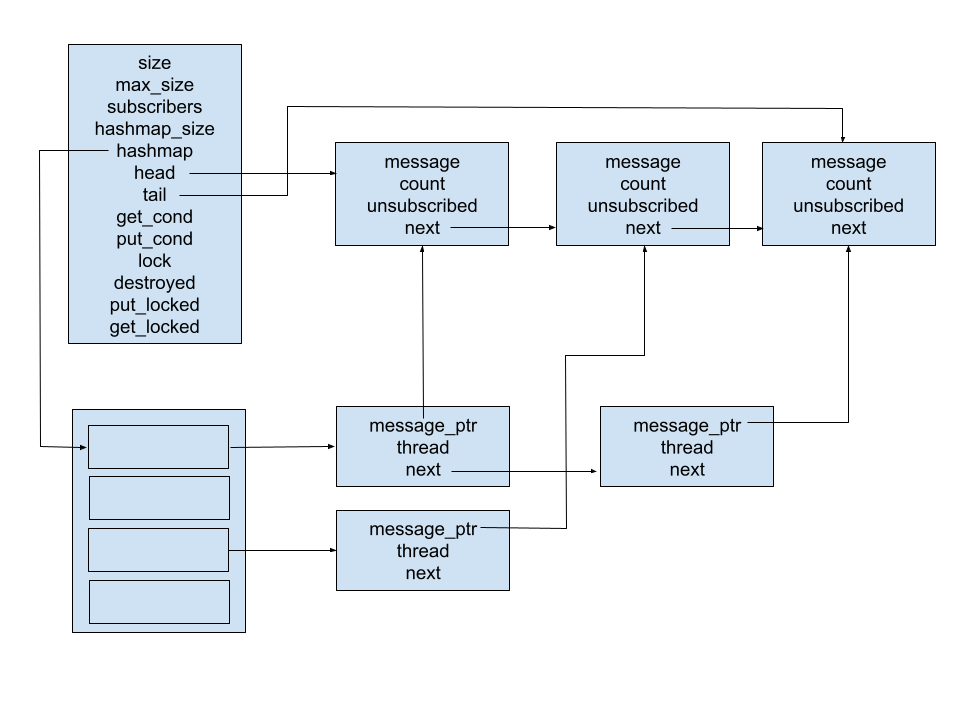
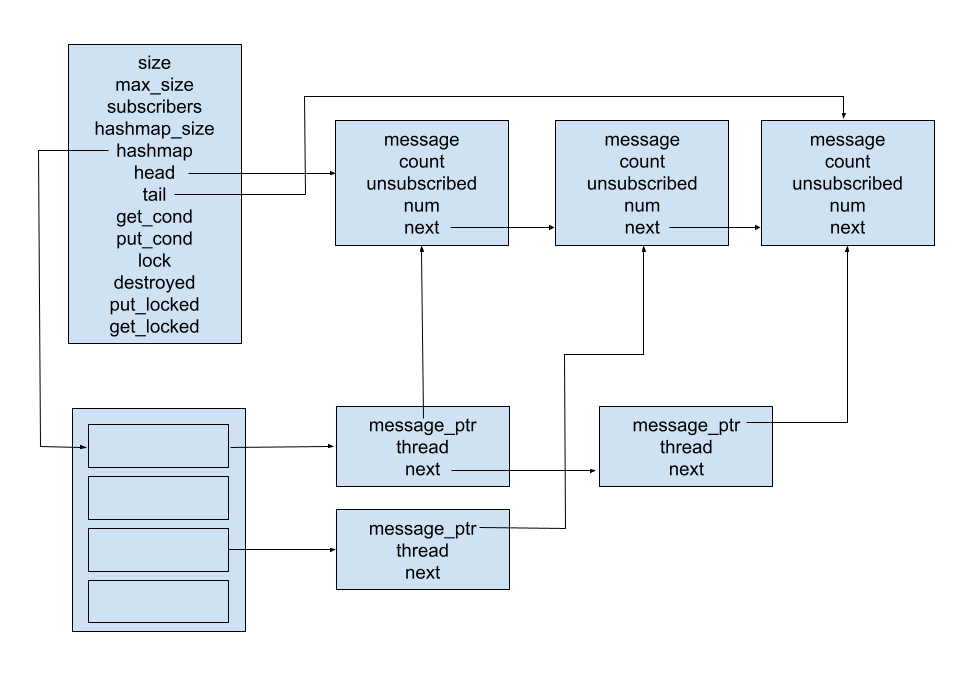
updated README (+ return value fixes)

diff --git a/tqueue.c b/tqueue.c
@@ -131,7 +131,7 @@ int TQueueSubscribe(TQueue * queue, pthread_t * thread) {
 
 	if (queue->destroyed)
 		goto end;
-	ret = 1;
+	ret = -2;
 
 	dbgprintf("BEFORE SUBSCRIBE (%p)\n", thread);
 	dbgTQueuePrint(queue);
@@ -180,7 +180,7 @@ int TQueueUnsubscribe(TQueue * queue, pthread_t * thread) {
 
 	if (queue->destroyed)
 		goto end;
-	ret = 1;
+	ret = -2;
 
 	dbgprintf("BEFORE UNSUBSCRIBE (%p)\n", thread);
 	dbgTQueuePrint(queue);

diff --git a/README.md b/README.md
@@ -6,7 +6,7 @@ The project implements a mutex-potected publish-subscribe queue with a given max
 
 The main ```TQueue``` structure contains maximum (```max_size```) and current size (```size```) of the queue, total subscribers (```subscribers```) (not counting unsubscriptions, it is reset together with ```unsubsribed``` on messages when number of subscribers exceeds 0x40000000), size of the hashmap used to store thread information (```hashmap_size```) as well as pointers to the hashmap (```hashmap```), head of the queue (```head```) and tail of the queue (```tail```). One mutex (```lock```) is used to guard access to the queue, while two condition variables are used to manage threads waiting for get and put operations (```get_cond```, ```put_cond```). To facilitate queue destruction a flag ```destroyed``` and counters for number of threads waiting on each condition variable are used (```get_locked```, ```put_locked```).
 
-The messages queue is implemented using linked lists with ```Tqueue``` structure storing pointers to its head, tail, its current and maximum size. Each node of the list (```TqueueMessage```) stores message ```msg``` (a void pointer), a number of subscribers that still need to read the message ```count```, the number of threads that unsubscribed while this message was their next to read ```unsubscribed``` (propagates to the next message once the messages is removed from the queue) and a pointer to the next message ```next```. The last (newest) element of the message queue is a dummy node. Once a new message is added, the dummy node is changed to a message node and a new dummy node is created. 
+The messages queue is implemented using linked lists with ```Tqueue``` structure storing pointers to its head, tail, its current and maximum size. Each node of the list (```TqueueMessage```) stores message ```msg``` (a void pointer), a number of subscribers that still need to read the message ```count```, the number of threads that unsubscribed while this message was their next to read ```unsubscribed``` (propagates to the next message once the messages is removed from the queue), a a message number ```num``` used to quickly calculate available messages and a pointer to the next message ```next```. The last (newest) element of the message queue is a dummy node. Once a new message is added, the dummy node is changed to a message node and a new dummy node is created. 
 
 Information about threads is stored in a hashmap using FNV hash function and chaining. Its default size is 16. This information includes pointer to the next message to read ```message_ptr```, thread identifier of the thread ```thread``` and pointer to the next thread information node ```next```, all stored on a ```TQueueThread``` node.
 
@@ -14,7 +14,7 @@ The structure of the ```Tqueue```, linked list and hashmap is shown in the pictu
 
 ![queue structure](./fig.png)
 
-If a subsciber attempts to read a message while no messages are available, it gets locked on a conditional variable ```get_cond``` and a variable ```get_locked``` is incremented until the thread leaves the condition variable. Similarly if a publisher attempts to add a message while the queue is full, it gets  locked on a conditional variable ```put_cond``` and a variable ```put_locked``` is incremented until the thread leaves the condition variable. These locked threads counters are used to ensure no threads are waiting on condition variables when the queue gets destroyed as this would lead to undefined behaviour.
+If a subscriber attempts to read a message while no messages are available, it gets locked on a conditional variable ```get_cond``` and a variable ```get_locked``` is incremented until the thread leaves the condition variable. Similarly if a publisher attempts to add a message while the queue is full, it gets  locked on a conditional variable ```put_cond``` and a variable ```put_locked``` is incremented until the thread leaves the condition variable. These locked threads counters are used to ensure no threads are waiting on condition variables when the queue gets destroyed as this would lead to undefined behaviour.
 
 It is possible to destroy the queue in two steps. In the first step most of the queue except for the mutex is destroyed and a ```destroyed``` flag is set allowing threads to gain information about the destruction. This allows for ending the threads after first step of the destruction, joining them and continuing to destroy the mutex in the second step once it is known that no more threads will attempt to access the queue. If the user wishes to manually manage the threads, both steps can be carried out with a single function too.
 
@@ -32,9 +32,9 @@ The available operations are as following (the prefix ```TQueue``` is used to av
 
 ```void TQueueDestroyQueue_2(TQueue * queue)``` - destroys the mutex, trying to access the queue afterwards will result in undefined behaviour
 
-```int TQueueSubscribe(TQueue * queue, pthread_t * thread)``` - adds thread ```thread``` as subscriber, the thread will be able to read messages added after this operation; returns 0 on sucess, -1 if the queue has already been destroyed*, 1 if the thread is already subscribed
+```int TQueueSubscribe(TQueue * queue, pthread_t * thread)``` - adds thread ```thread``` as subscriber, the thread will be able to read messages added after this operation; returns 0 on sucess, -1 if the queue has already been destroyed*, -2 if the thread is already subscribed
 
-```int TQueueUnsubscribe(TQueue * queue, pthread_t * thread)``` - removes thread ```thread``` as subscriber, all its unread messages will be treated as if they were read; returns 0 on sucess, -1 if the queue has already been destroyed*, 1 if the thread is not subscribed
+```int TQueueUnsubscribe(TQueue * queue, pthread_t * thread)``` - removes thread ```thread``` as subscriber, all its unread messages will be treated as if they were read; returns 0 on sucess, -1 if the queue has already been destroyed*, -2 if the thread is not subscribed
 
 ```int TQueuePut(TQueue * queue, void *msg)``` - adds message ```msg``` to the queue, this operation is blocking if the queue is full; returns 0 on sucess, -1 if the queue has already been destroyed*
 
